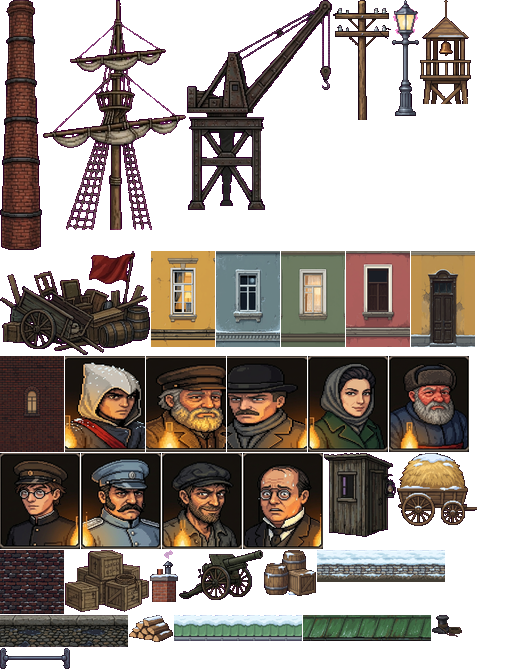
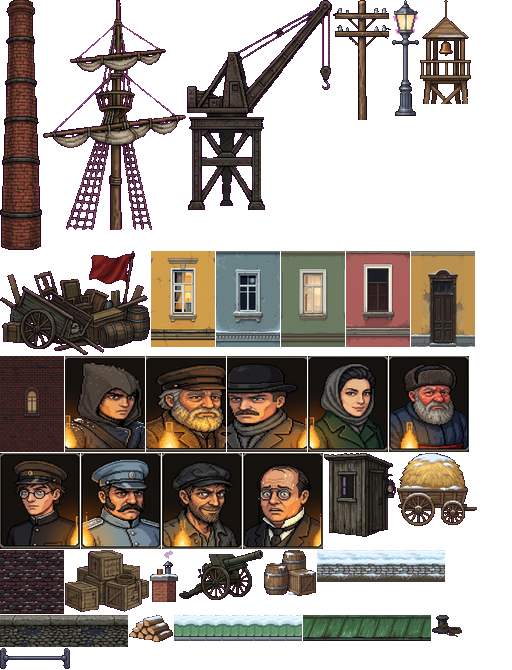
Обновление 2026-11-19 22:41

Changed region(s): [[0.125, 0.5373, 0.2812, 0.6866]]

diff --git a/games/strazha/index.html b/games/strazha/index.html
@@ -380,10 +380,15 @@ function updClimb(dir){const p=P;p.climbT=(p.climbT||0)+1;
   if(moved)p.climb++;}
 function landCheck(){const fell=(P.y-P.fallY)/TS;const soft=hideAt(P.x,P.y)||hideAt(P.x-5,P.y)||hideAt(P.x+5,P.y);
   if(soft){if(fell>3){fx('snow',P.x,P.y-6);sfx('land');if(fell>5){toastTxt('Прыжок веры!');ach('leap');}}return;}
+  if(P.rollBuf>0&&fell>2.5&&fell<=18){// перекат: БЛОК перед приземлением гасит удар
+    P.rollBuf=0;const dir=IN.l?-1:IN.r?1:P.face;P.face=dir;P.roll=20;P.vx=dir*2.4;P.inv=Math.max(P.inv,16);P.rollLock=1;sfx('roll');fx('dust',P.x,P.y,{n:8});haptic('light');
+    if(fell>13)damage(Math.ceil((fell-13)/2),P.x);if(fell>8){G.rollN=(G.rollN||0)+1;toastTxt('Перекат!');if(G.rollN>=5)ach('roll5');}return;}
+  if(fell>8&&fell<=18&&P.st!=='dead')hint('Перед самым приземлением жми БЛОК — Илья уйдёт в перекат и не разобьётся.');
   if(fell>13)die();else if(fell>8)damage(Math.ceil((fell-8)/2),P.x);else if(fell>2.5){sfx('land');P.land=8;if(fell>5)haptic('light');}}
 function updPlayer(){const p=P;p.anim++;if(p.inv>0)p.inv--;if(p.hurt>0)p.hurt--;if(p.noGrab>0)p.noGrab--;if(p.ctr>0)p.ctr--;if(p.kill>0)p.kill--;if(p.cj>0)p.cj--;if(p.land>0)p.land--;if(p.comboT>0)p.comboT--;
   if(p.st==='dead'){p.vy=Math.min(p.vy+0.35,7);moveY(p,p.vy,PW,8);return;}
   if(p.st==='sync'||p.st==='tackle'||p.st==='hook')return;
+  if(p.rollBuf>0)p.rollBuf--;if(IN.b&&!p.bWas&&p.st==='air'&&p.vy>0)p.rollBuf=16;p.bWas=IN.b;
   const dir=(IN.r?1:0)-(IN.l?1:0);
   if(IN.jP)p.jbuf=8;else if(p.jbuf>0)p.jbuf--;
   // висит на краю
@@ -706,7 +711,7 @@ function drawRig(x,y,face,pose,lk,speed){ctx.save();ctx.translate(x,y);ctx.scale
 let o_glint=1;
 const WHITE={coat:'#fff',coatD:'#eee',sleeve:'#fff',sleeveB:'#eee',leg:'#fff',legD:'#eee',body:'#fff',skin:'#fff',hat:'',long:1};
 const LOOK={
-  ilya:{coat:'#2c313c',coatD:'#1e222b',sleeve:'#2c313c',sleeveB:'#1e222b',leg:'#26262c',legD:'#1a1a20',skin:'#e2c2a2',hat:'hood',hood:'#c9c3b6',sash:'#a12a26',belt:'#3a2a1a',long:1},
+  ilya:{coat:'#2c313c',coatD:'#1e222b',sleeve:'#2c313c',sleeveB:'#1e222b',leg:'#26262c',legD:'#1a1a20',skin:'#e2c2a2',hat:'hood',hood:'#4a4038',sash:'#4e3a2a',belt:'#3a2a1a',long:1},
   cop:{coat:'#181a24',coatD:'#10121a',leg:'#181a24',legD:'#10121a',skin:'#d8b090',hat:'papakha',hatC:'#121214',belt:'#b8823a',cord:'#d09040',weapon:'saber',long:1},
   soldier:{coat:'#5c5a4a',coatD:'#46443a',leg:'#4c4a3e',legD:'#3c3a30',skin:'#d8b090',hat:'cap',hatC:'#4a4a3a',band:'#a02020',belt:'#3a2a1a',weapon:'rifle',long:1},
   officer:{coat:'#2a3628',coatD:'#1e281e',leg:'#2a2a30',legD:'#1e1e24',skin:'#dcb494',hat:'cap',hatC:'#2a3628',band:'#b02424',belt:'#c8a040',epaul:'#e0c060',weapon:'saber',beard:'#5a4030',long:1},
@@ -1089,6 +1094,7 @@ function drawMech(){
 const ACH=[
   {id:'blade',t:'Тихий клинок',d:'Убить врага скрытым клинком, не подняв тревоги'},
   {id:'leap',t:'Прыжок веры',d:'Прыгнуть с высоты в сено или сугроб'},
+  {id:'roll5',t:'Кошачья походка',d:'Пять раз уйти в перекат после высокого прыжка'},
   {id:'sync',t:'Город как на ладони',d:'Синхронизироваться на каланче'},
   {id:'counter3',t:'Мастер контрудара',d:'Три контрудара за одну миссию'},
   {id:'crows',t:'Гроза ворон',d:'Вспугнуть 10 стай ворон'},

diff --git a/games/strazha/sw.js b/games/strazha/sw.js
@@ -1,6 +1,6 @@
 // Ночная стража — офлайн-кэш ТОЛЬКО для папки games/strazha/ (корень сайта не трогает).
 // При обновлении игры меняй VERSION.
-const VERSION='strazha-v26';
+const VERSION='strazha-v27';
 const FILES=['./','./index.html','./manifest.webmanifest','./cover.png','./icon-192.png','./icon-512.png','./art/act1.jpg','./art/act2.jpg','./art/act3.jpg','./art/map.jpg','./art/atlas.png','./art/city.png','./art/sky_far.png','./art/city_mid.png','./art/city_mid_warm.png','./art/city_back.png','./art/city_near.png'];
 self.addEventListener('install',e=>{e.waitUntil(caches.open(VERSION).then(c=>c.addAll(FILES)).then(()=>self.skipWaiting()));});
 self.addEventListener('activate',e=>{e.waitUntil(caches.keys().then(ks=>Promise.all(ks.filter(k=>k.startsWith('strazha-')&&k!==VERSION).map(k=>caches.delete(k)))).then(()=>self.clients.claim()));});
